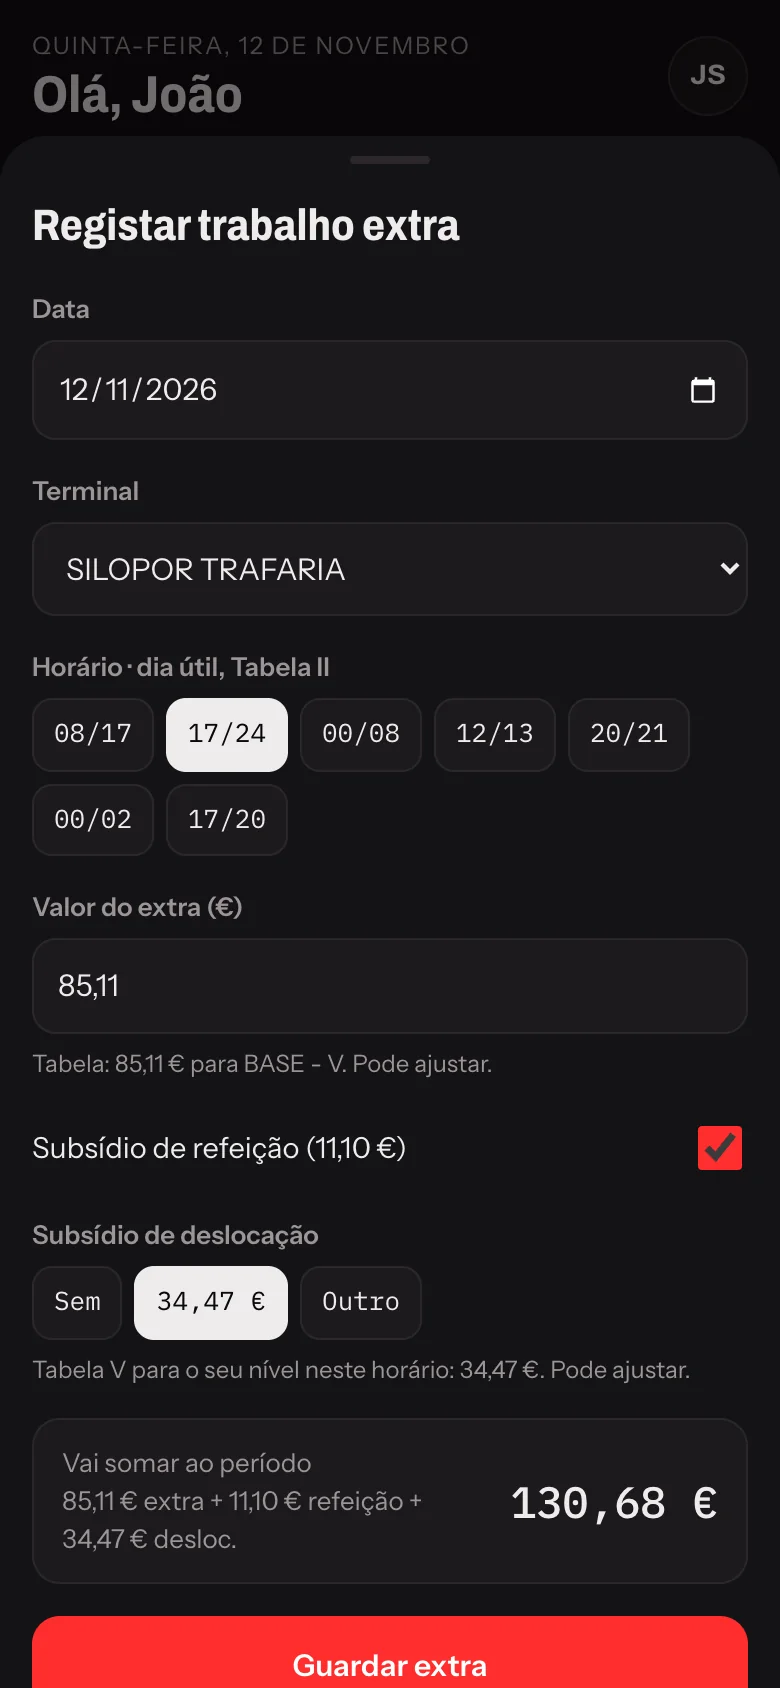
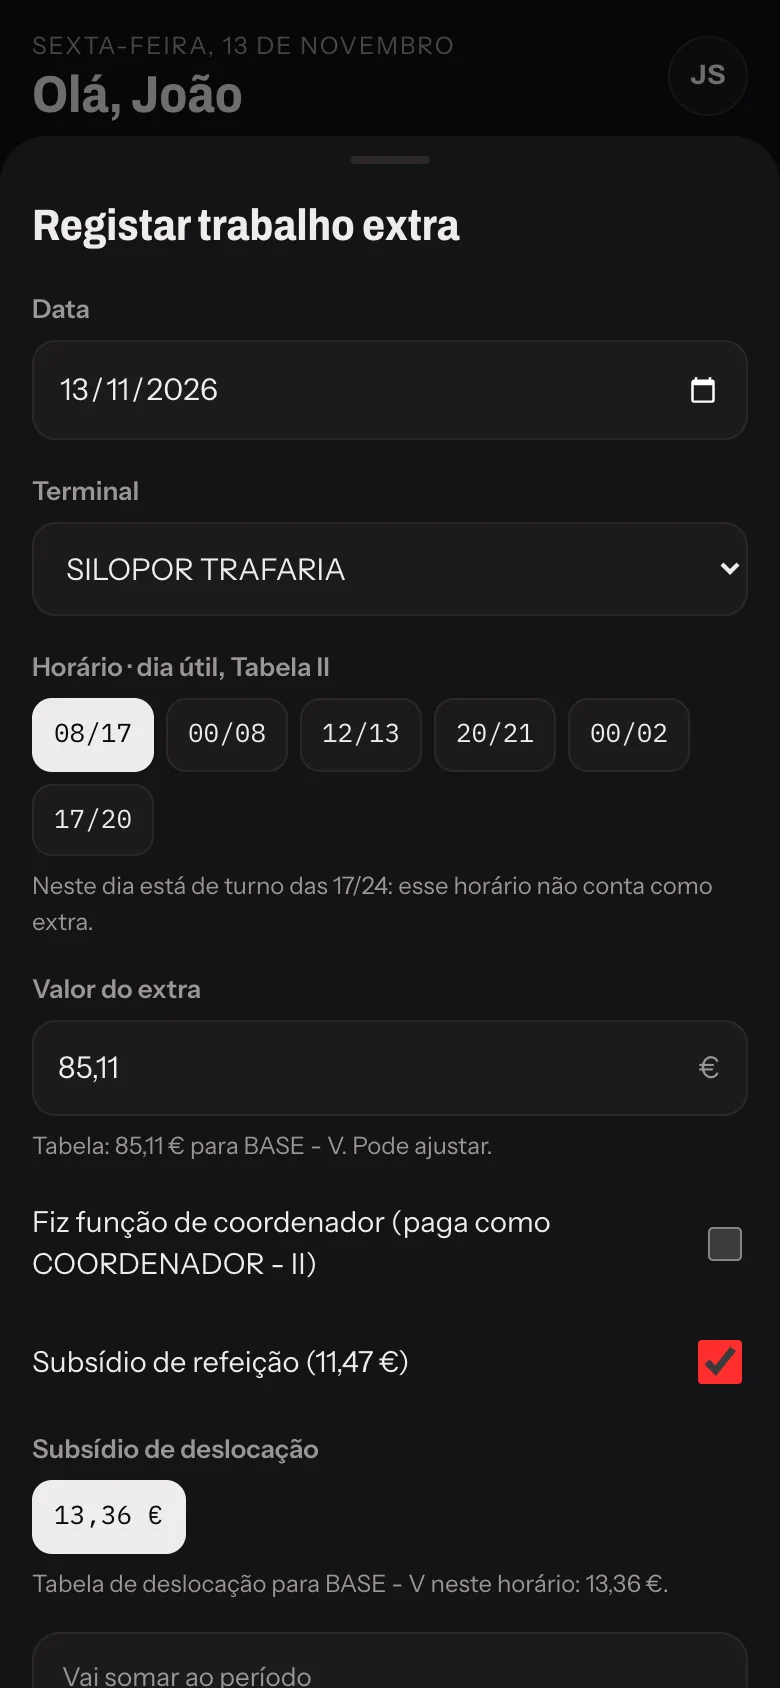
Site: novidades da 2.0.2 (Função, marcar vários dias, deslocação, versão) e ecrãs atualizados

diff --git a/index.html b/index.html
@@ -17,7 +17,7 @@
 <link rel="preconnect" href="https://fonts.googleapis.com">
 <link rel="preconnect" href="https://fonts.gstatic.com" crossorigin>
 <link href="https://fonts.googleapis.com/css2?family=Archivo:wght@600;800;900&family=Instrument+Sans:wght@400;500;600&family=IBM+Plex+Mono:wght@500&display=swap" rel="stylesheet">
-<link rel="preload" as="image" href="img/dark-inicio.webp?v=2" type="image/webp">
+<link rel="preload" as="image" href="img/dark-inicio.webp?v=3" type="image/webp">
 <link rel="stylesheet" href="estilo.css">
 </head>
 <body>
@@ -31,7 +31,7 @@
       <span>Shift Control</span>
     </a>
     <ul>
-      <li><a href="#funcoes">Funções</a></li>
+      <li><a href="#funcoes">O que faz</a></li>
       <li><a href="#ecras">Ecrãs</a></li>
       <li><a href="#computador">Computador</a></li>
       <li><a href="#descarregar">Instalar</a></li>
@@ -45,7 +45,7 @@
   <!-- ============ Abertura ============ -->
   <section class="hero largura" aria-labelledby="titulo">
     <div class="hero-texto">
-      <p class="selo"><span class="ponto" aria-hidden="true"></span>Nova versão 2.0.2 · app Android nativo</p>
+      <p class="selo"><span class="ponto" aria-hidden="true"></span>Nova versão 2.0.2 · Função e marcar vários dias</p>
       <h1 id="titulo">A sua escala, os seus extras e o seu recibo <em>no bolso.</em></h1>
       <p class="lead">Registe cada turno e cada trabalho extra e veja, em tempo real, quanto vai receber no fim do mês, já com subsídios e descontos. Feito por quem trabalha no porto, para quem trabalha no porto.</p>
       <div class="ctas" id="ctas">
@@ -64,15 +64,15 @@
     <div class="hero-visual" aria-hidden="true">
       <div class="brilho"></div>
       <figure class="telefone telefone-hero">
-        <img src="img/dark-inicio.webp?v=2" alt="" width="390" height="844" fetchpriority="high">
+        <img src="img/dark-inicio.webp?v=3" alt="" width="390" height="844" fetchpriority="high">
       </figure>
       <div class="cartao-flutuante c1">
         <span class="cf-rotulo">Previsão do mês</span>
-        <strong class="mono">2073,34 €</strong>
+        <strong class="mono">2120,61 €</strong>
       </div>
       <div class="cartao-flutuante c2">
         <span class="cf-rotulo">Deslocação</span>
-        <strong class="mono">+ 34,47 €</strong>
+        <strong class="mono">+ 88,71 €</strong>
       </div>
     </div>
   </section>
@@ -80,7 +80,7 @@
   <!-- ============ Números ============ -->
   <section class="faixa-numeros" aria-label="Em resumo">
     <ul class="largura">
-      <li><strong>5</strong><span>tabelas salariais<br>já incluídas</span></li>
+      <li><strong>7</strong><span>tabelas e valores<br>sempre atualizados</span></li>
       <li><strong>0</strong><span>contas à mão<br>no fim do mês</span></li>
       <li><strong>5,7&nbsp;MB</strong><span>de instalação<br>no Android</span></li>
       <li><strong>24/7</strong><span>funciona até<br>sem rede</span></li>
@@ -98,47 +98,76 @@
       <div class="destaque-texto">
         <span class="etiqueta">01 · Previsão</span>
         <h3>Saiba quanto vai receber antes do recibo chegar.</h3>
-        <p>O valor líquido sobe a cada extra registado. Vencimento base, subsídio de turno, transporte, refeição, Segurança Social, SEAL e IRS calculados com as regras da PORLIS.</p>
+        <p>O valor líquido sobe a cada extra registado. Vencimento base, subsídio de turno, transporte, refeição, deslocação, funções, Segurança Social, SEAL e IRS calculados com as regras da PORLIS. Todos os valores em euros, com cêntimos.</p>
         <ul class="checks">
           <li>Mês inteiro ou quinzena (1 a 15, 16 ao fim)</li>
           <li>Ajuste as suas taxas de IRS e Segurança Social</li>
           <li>Partilhe o recibo em PDF pelo WhatsApp ou e-mail</li>
+          <li>Subsídios de férias e Natal no Perfil</li>
         </ul>
       </div>
-      <figure class="telefone"><img src="img/dark-recibo.webp?v=2" alt="Ecrã do recibo com abonos e descontos de novembro" width="390" height="844" loading="lazy" decoding="async"></figure>
+      <figure class="telefone"><img src="img/dark-recibo.webp?v=3" alt="Ecrã do recibo com abonos e descontos de novembro" width="390" height="844" loading="lazy" decoding="async"></figure>
     </article>
 
     <article class="destaque invertido">
       <div class="destaque-texto">
         <span class="etiqueta">02 · Trabalho extra</span>
         <h3>Os valores do extra preenchidos por si.</h3>
-        <p>Escolha o terminal e o horário: o app sabe se é dia útil, sábado, domingo ou feriado e põe o valor certo para o seu nível. Em Trafaria, Sovena e Alhandra junta sozinho a deslocação.</p>
+        <p>Escolha o terminal e o horário: o app sabe se é dia útil, sábado, domingo ou feriado e põe o valor certo para o seu nível. O horário do seu turno nesse dia nem aparece, porque não conta como extra.</p>
         <ul class="checks">
-          <li>Subsídio de refeição nos turnos completos</li>
-          <li>Funções de coordenação e subsídios de férias e Natal</li>
+          <li>Deslocação automática em Trafaria, Sovena e Alhandra: uma por terminal e por dia, seja no turno, no extra ou na função</li>
+          <li>Mudou de terminal no mesmo dia? Recebe a segunda deslocação</li>
+          <li>Fez de coordenador no extra? Marque e é pago como COORDENADOR - II</li>
         </ul>
       </div>
-      <figure class="telefone"><img src="img/dark-form-extra.webp?v=2" alt="Formulário de registo de extra em Silopor Trafaria com a deslocação" width="390" height="844" loading="lazy" decoding="async"></figure>
+      <figure class="telefone"><img src="img/dark-form-extra.webp?v=3" alt="Formulário de registo de extra em Silopor Trafaria com a deslocação" width="390" height="844" loading="lazy" decoding="async"></figure>
     </article>
 
     <article class="destaque">
       <div class="destaque-texto">
         <span class="etiqueta">03 · Escala</span>
         <h3>O mês inteiro de relance.</h3>
-        <p>1.º e 2.º turno, folgas, feriados, férias e indisponibilidades num calendário com cores. Preencha o mês de uma vez e ajuste dia a dia.</p>
+        <p>1.º e 2.º turno, folgas, férias e feriados (sempre a laranja) num calendário com cores. Por baixo de cada dia, uma marca mostra o que fez: <strong>quadrado</strong> para dia trabalhado, <strong>losango</strong> para extra e <strong>círculo</strong> para indisponível.</p>
         <ul class="checks">
           <li>Próximo turno sempre no ecrã inicial</li>
           <li>Cartão refeição contado automaticamente</li>
         </ul>
       </div>
-      <figure class="telefone"><img src="img/dark-turnos.webp?v=2" alt="Calendário de turnos de novembro com legenda de cores" width="390" height="844" loading="lazy" decoding="async"></figure>
+      <figure class="telefone"><img src="img/dark-turnos.webp?v=3" alt="Calendário de turnos de novembro com as marcas de dia trabalhado, extra e indisponível" width="390" height="844" loading="lazy" decoding="async"></figure>
+    </article>
+
+    <article class="destaque invertido">
+      <div class="destaque-texto">
+        <span class="etiqueta">04 · Marcar vários dias</span>
+        <h3>Uma semana de trabalho em três toques.</h3>
+        <p>Escolha o que quer marcar (dia trabalhado, extra, férias ou indisponível), toque nos dias e guarde. Para apagar, mude para <em>Remover</em> e faça o mesmo.</p>
+        <ul class="checks">
+          <li>Dia trabalhado com o turno e o horário da sua escala</li>
+          <li>Deslocação pela sua BASE ou como COORDENADOR - II</li>
+          <li>Férias, feriados e fins de semana ficam de fora: aí é extra</li>
+        </ul>
+      </div>
+      <figure class="telefone"><img src="img/dark-marcar.webp?v=3" alt="Marcar vários dias: dias trabalhados escolhidos no calendário em Silopor Trafaria" width="390" height="844" loading="lazy" decoding="async"></figure>
+    </article>
+
+    <article class="destaque">
+      <div class="destaque-texto">
+        <span class="etiqueta">05 · Função</span>
+        <h3>A função de coordenador também conta.</h3>
+        <p>Um separador só para as funções de coordenação. Fez de COORDENADOR - II no seu turno? O app paga a diferença da tabela de extra entre o coordenador e o seu nível, e junta a deslocação de coordenador.</p>
+        <ul class="checks">
+          <li>Total do mês e deslocação sempre à vista</li>
+          <li>Entra sozinho no recibo</li>
+        </ul>
+      </div>
+      <figure class="telefone"><img src="img/dark-funcoes.webp?v=3" alt="Separador Função com duas funções de coordenação em novembro" width="390" height="844" loading="lazy" decoding="async"></figure>
     </article>
 
     <ul class="grelha-funcoes">
       <li>
         <svg viewBox="0 0 24 24" aria-hidden="true"><path d="M21 12a9 9 0 11-3-6.7M21 4v5h-5"/></svg>
         <h3>Atualiza sozinho</h3>
-        <p>Cada melhoria chega ao seu telemóvel automaticamente, no Android e no iPhone. Não precisa de reinstalar.</p>
+        <p>Cada melhoria chega ao seu telemóvel automaticamente, no Android e no iPhone. Quando sai um APK novo, o app avisa e descarrega com um toque. A versão está no fim do Perfil.</p>
       </li>
       <li>
         <svg viewBox="0 0 24 24" aria-hidden="true"><path d="M2 8.8a15 15 0 0120 0M5 12.3a10 10 0 0114 0M8.5 15.8a5 5 0 017 0M12 19.5h.01"/></svg>
@@ -166,11 +195,13 @@
       <p class="sub">Deslize para ver mais. Dados de exemplo.</p>
     </header>
     <div class="galeria" tabindex="0" role="region" aria-label="Galeria de ecrãs, deslize na horizontal">
-      <figure><div class="telefone"><img src="img/light-inicio.webp?v=2" alt="Ecrã inicial no tema claro" width="390" height="844" loading="lazy" decoding="async"></div><figcaption>Início · tema claro</figcaption></figure>
-      <figure><div class="telefone"><img src="img/dark-extras.webp?v=2" alt="Lista de trabalho extra do mês" width="390" height="844" loading="lazy" decoding="async"></div><figcaption>Trabalho extra</figcaption></figure>
-      <figure><div class="telefone"><img src="img/light-turnos.webp?v=2" alt="Calendário de turnos no tema claro" width="390" height="844" loading="lazy" decoding="async"></div><figcaption>Turnos</figcaption></figure>
-      <figure><div class="telefone"><img src="img/light-recibo.webp?v=2" alt="Previsão do recibo no tema claro" width="390" height="844" loading="lazy" decoding="async"></div><figcaption>Recibo</figcaption></figure>
-      <figure><div class="telefone"><img src="img/dark-inicio.webp?v=2" alt="Ecrã inicial no tema escuro" width="390" height="844" loading="lazy" decoding="async"></div><figcaption>Início · tema escuro</figcaption></figure>
+      <figure><div class="telefone"><img src="img/light-inicio.webp?v=3" alt="Ecrã inicial no tema claro" width="390" height="844" loading="lazy" decoding="async"></div><figcaption>Início · tema claro</figcaption></figure>
+      <figure><div class="telefone"><img src="img/dark-extras.webp?v=3" alt="Lista de trabalho extra do mês" width="390" height="844" loading="lazy" decoding="async"></div><figcaption>Extra</figcaption></figure>
+      <figure><div class="telefone"><img src="img/light-turnos.webp?v=3" alt="Calendário de turnos no tema claro" width="390" height="844" loading="lazy" decoding="async"></div><figcaption>Turno</figcaption></figure>
+      <figure><div class="telefone"><img src="img/dark-form-extra.webp?v=3" alt="Formulário para registar um extra com a opção de coordenador" width="390" height="844" loading="lazy" decoding="async"></div><figcaption>Registar extra</figcaption></figure>
+      <figure><div class="telefone"><img src="img/dark-funcoes.webp?v=3" alt="Funções de coordenação do mês" width="390" height="844" loading="lazy" decoding="async"></div><figcaption>Função</figcaption></figure>
+      <figure><div class="telefone"><img src="img/light-recibo.webp?v=3" alt="Previsão do recibo no tema claro" width="390" height="844" loading="lazy" decoding="async"></div><figcaption>Recibo</figcaption></figure>
+      <figure><div class="telefone"><img src="img/dark-inicio.webp?v=3" alt="Ecrã inicial no tema escuro" width="390" height="844" loading="lazy" decoding="async"></div><figcaption>Início · tema escuro</figcaption></figure>
     </div>
   </section>
 
@@ -184,13 +215,14 @@
 
     <figure class="navegador">
       <div class="nav-barra" aria-hidden="true"><span></span><span></span><span></span><p class="mono">marloon-dev.github.io/shift-control-app</p></div>
-      <img id="ecra-pc" src="img/desktop-dark-inicio.webp?v=2" alt="Ecrã inicial do Shift Control no computador, com a previsão do mês e os últimos extras" width="1440" height="900" loading="lazy" decoding="async">
+      <img id="ecra-pc" src="img/desktop-dark-inicio.webp?v=3" alt="Ecrã inicial do Shift Control no computador, com a previsão do mês e os últimos extras" width="1440" height="900" loading="lazy" decoding="async">
     </figure>
     <div class="miniaturas" role="group" aria-label="Escolher ecrã do computador">
-      <button type="button" aria-pressed="true" data-ecra="img/desktop-dark-inicio.webp?v=2" data-alt="Ecrã inicial do Shift Control no computador, com a previsão do mês e os últimos extras"><img src="img/desktop-dark-inicio.webp?v=2" alt="" width="1440" height="900" loading="lazy" decoding="async"><span>Início</span></button>
-      <button type="button" aria-pressed="false" data-ecra="img/desktop-light-turnos.webp?v=2" data-alt="Calendário de turnos de novembro no computador, no tema claro"><img src="img/desktop-light-turnos.webp?v=2" alt="" width="1440" height="900" loading="lazy" decoding="async"><span>Turnos · tema claro</span></button>
-      <button type="button" aria-pressed="false" data-ecra="img/desktop-dark-extras.webp?v=2" data-alt="Lista de trabalho extra do mês no computador"><img src="img/desktop-dark-extras.webp?v=2" alt="" width="1440" height="900" loading="lazy" decoding="async"><span>Extras</span></button>
-      <button type="button" aria-pressed="false" data-ecra="img/desktop-dark-recibo.webp?v=2" data-alt="Previsão do recibo com abonos e descontos no computador"><img src="img/desktop-dark-recibo.webp?v=2" alt="" width="1440" height="900" loading="lazy" decoding="async"><span>Recibo</span></button>
+      <button type="button" aria-pressed="true" data-ecra="img/desktop-dark-inicio.webp?v=3" data-alt="Ecrã inicial do Shift Control no computador, com a previsão do mês e os últimos extras"><img src="img/desktop-dark-inicio.webp?v=3" alt="" width="1440" height="900" loading="lazy" decoding="async"><span>Início</span></button>
+      <button type="button" aria-pressed="false" data-ecra="img/desktop-light-turnos.webp?v=3" data-alt="Calendário de turnos de novembro no computador, no tema claro"><img src="img/desktop-light-turnos.webp?v=3" alt="" width="1440" height="900" loading="lazy" decoding="async"><span>Turno · tema claro</span></button>
+      <button type="button" aria-pressed="false" data-ecra="img/desktop-dark-extras.webp?v=3" data-alt="Lista de trabalho extra do mês no computador"><img src="img/desktop-dark-extras.webp?v=3" alt="" width="1440" height="900" loading="lazy" decoding="async"><span>Extra</span></button>
+      <button type="button" aria-pressed="false" data-ecra="img/desktop-dark-funcoes.webp?v=3" data-alt="Funções de coordenação do mês no computador"><img src="img/desktop-dark-funcoes.webp?v=3" alt="" width="1440" height="900" loading="lazy" decoding="async"><span>Função</span></button>
+      <button type="button" aria-pressed="false" data-ecra="img/desktop-dark-recibo.webp?v=3" data-alt="Previsão do recibo com abonos e descontos no computador"><img src="img/desktop-dark-recibo.webp?v=3" alt="" width="1440" height="900" loading="lazy" decoding="async"><span>Recibo</span></button>
     </div>
 
     <div class="pc-instalar">
@@ -276,7 +308,7 @@
       <ol class="linha-passos">
         <li><span class="num">1</span><div><strong>Peça acesso</strong><p>O administrador regista o seu e-mail e ativa a licença.</p></div></li>
         <li><span class="num">2</span><div><strong>Entre</strong><p>Com o e-mail e a palavra-passe provisória que ele lhe envia. Depois escolhe a sua e completa o perfil.</p></div></li>
-        <li><span class="num">3</span><div><strong>Preencha a escala</strong><p>Em Turnos, toque em <em>Preencher mês</em>. Está pronto.</p></div></li>
+        <li><span class="num">3</span><div><strong>Preencha a escala</strong><p>Em Turno, toque em <em>Preencher mês</em>. Depois marque os dias trabalhados em <em>Marcar vários dias</em>.</p></div></li>
       </ol>
     </div>
   </section>
@@ -290,7 +322,15 @@
     <div class="faq">
       <details>
         <summary>Tenho de reinstalar quando houver uma versão nova?</summary>
-        <p>Não. No Android, o app descarrega as novidades em segundo plano e aplica-as na vez seguinte que o abrir. No iPhone, abre sempre a versão mais recente. Só muito raramente o Android precisa de um APK novo, e nesse caso o próprio app avisa com um botão para descarregar.</p>
+        <p>Não. No Android, o app descarrega as novidades em segundo plano e aplica-as na vez seguinte que o abrir. No iPhone, abre sempre a versão mais recente. Quando sai um APK novo, o próprio app mostra <strong>Nova versão do app</strong> com o botão <strong>Descarregar</strong>: instale por cima e os dados mantêm-se.</p>
+      </details>
+      <details>
+        <summary>Como sei que versão tenho?</summary>
+        <p>No fim do ecrã <em>Perfil</em> aparece, por exemplo, <span class="mono">Shift Control 2.0.2</span> e a data da última atualização. No computador e no iPhone mostra a versão da atualização.</p>
+      </details>
+      <details>
+        <summary>Como conta o subsídio de deslocação?</summary>
+        <p>Em Silopor Trafaria, Sovena e TMB Alhandra recebe um subsídio de deslocação por terminal e por dia, seja no turno, no extra ou na função, pela ordem em que os registar. Se ficar de extra no mesmo terminal, não conta outra vez. Se for chamado para outro destes terminais no mesmo dia, recebe a segunda deslocação. Nos dias úteis usa a tabela de deslocação DU; aos sábados, domingos e feriados, a SDF.</p>
       </details>
       <details>
         <summary>Porque é que o app não está na Play Store nem na App Store?</summary>

diff --git a/README.md b/README.md
@@ -6,4 +6,4 @@ Publicado em https://marloon-dev.github.io/shift-control-site/
 
 Os ecrãs usam dados de exemplo. O app em si está em https://marloon-dev.github.io/shift-control-app/ (iPhone e computador); no Android instala-se o APK nativo, que se atualiza sozinho.
 
-Para publicar um APK novo, substitua `shift-control.apk` e atualize o número da versão e o tamanho em `index.html`.
+Os APK novos publicam-se a partir do repositório do app com `bash scripts/release-android.sh "notas"`: o script gera o APK, cria a release, atualiza `shift-control.apk`, a versão e o tamanho em `index.html` e avisa os apps instalados.
